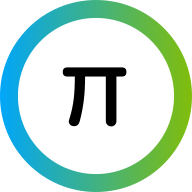
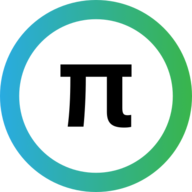
refactor: 更换配色

diff --git a/.vitepress/theme/styles/custom.scss b/.vitepress/theme/styles/custom.scss
@@ -20,13 +20,9 @@
 
 :root {
   --vp-home-hero-name-color: transparent;
-  --vp-home-hero-name-background: linear-gradient(90deg, #00a6f9, #81bd0a);
+  --vp-home-hero-name-background: linear-gradient(90deg, #29ABE1, #39B54B);
 
-  --vp-home-hero-image-background-image: linear-gradient(
-    90deg,
-    #00a6f966,
-    #81bd0a66
-  );
+  --vp-home-hero-image-background-image: linear-gradient(90deg, #29ABE166, #39B54B66);
   --vp-home-hero-image-filter: blur(40px);
 }
 
@@ -66,25 +62,13 @@
   }
 }
 
-//给主页的 Markdown 内容添加边距
-.VPHome .vp-doc.container {
-  position: relative;
-  padding: 0 24px;
-  margin: 0 auto;
-  max-width: 1152px;
-  box-sizing: content-box;
-  @media (min-width: 640px) {
-    padding: 0 48px;
+.VPHome {
+  .VPHero {
+    .image {
+      .image-src {
+        width: 192px;
+        height: 192px;
+      }
+    }
   }
-
-  @media (min-width: 960px) {
-    padding: 0 64px;
-  }
-}
-
-// 全局启用链接图标
-.vp-doc.external-link-icon-enabled :is(.vp-doc a[href*='://'], .vp-doc a[target='_blank'])::after
-{
-  content: "";
-  color: currentColor;
 }
